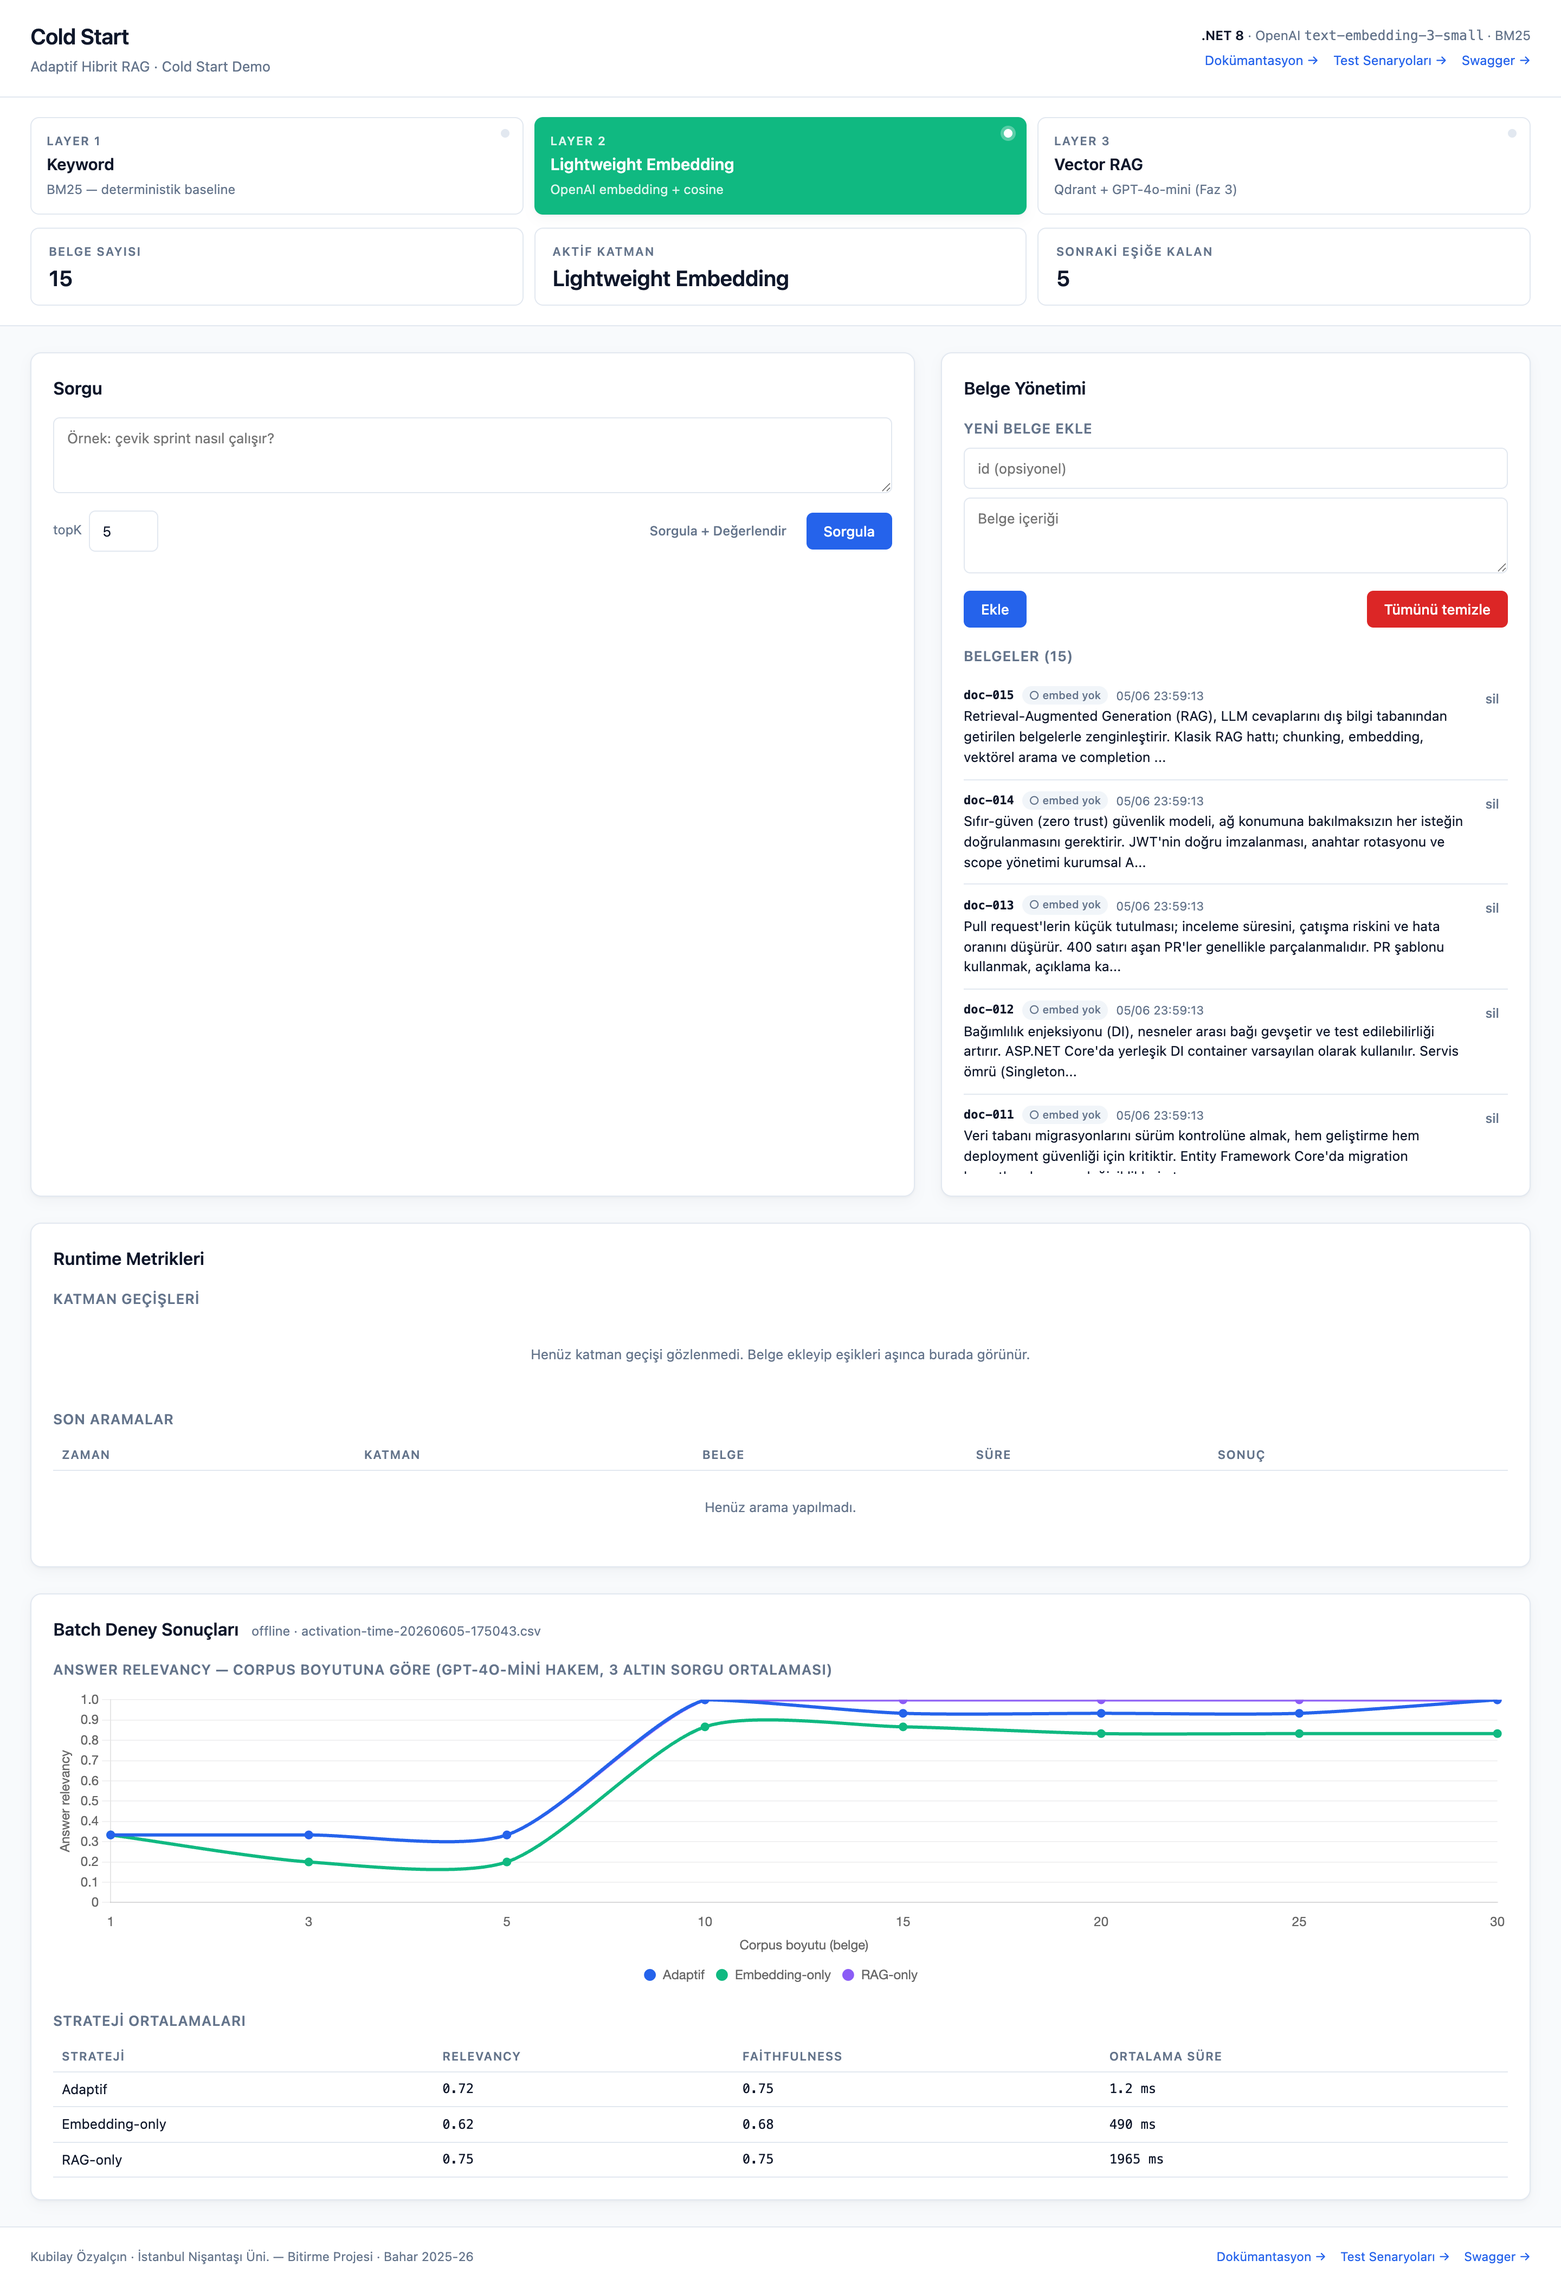
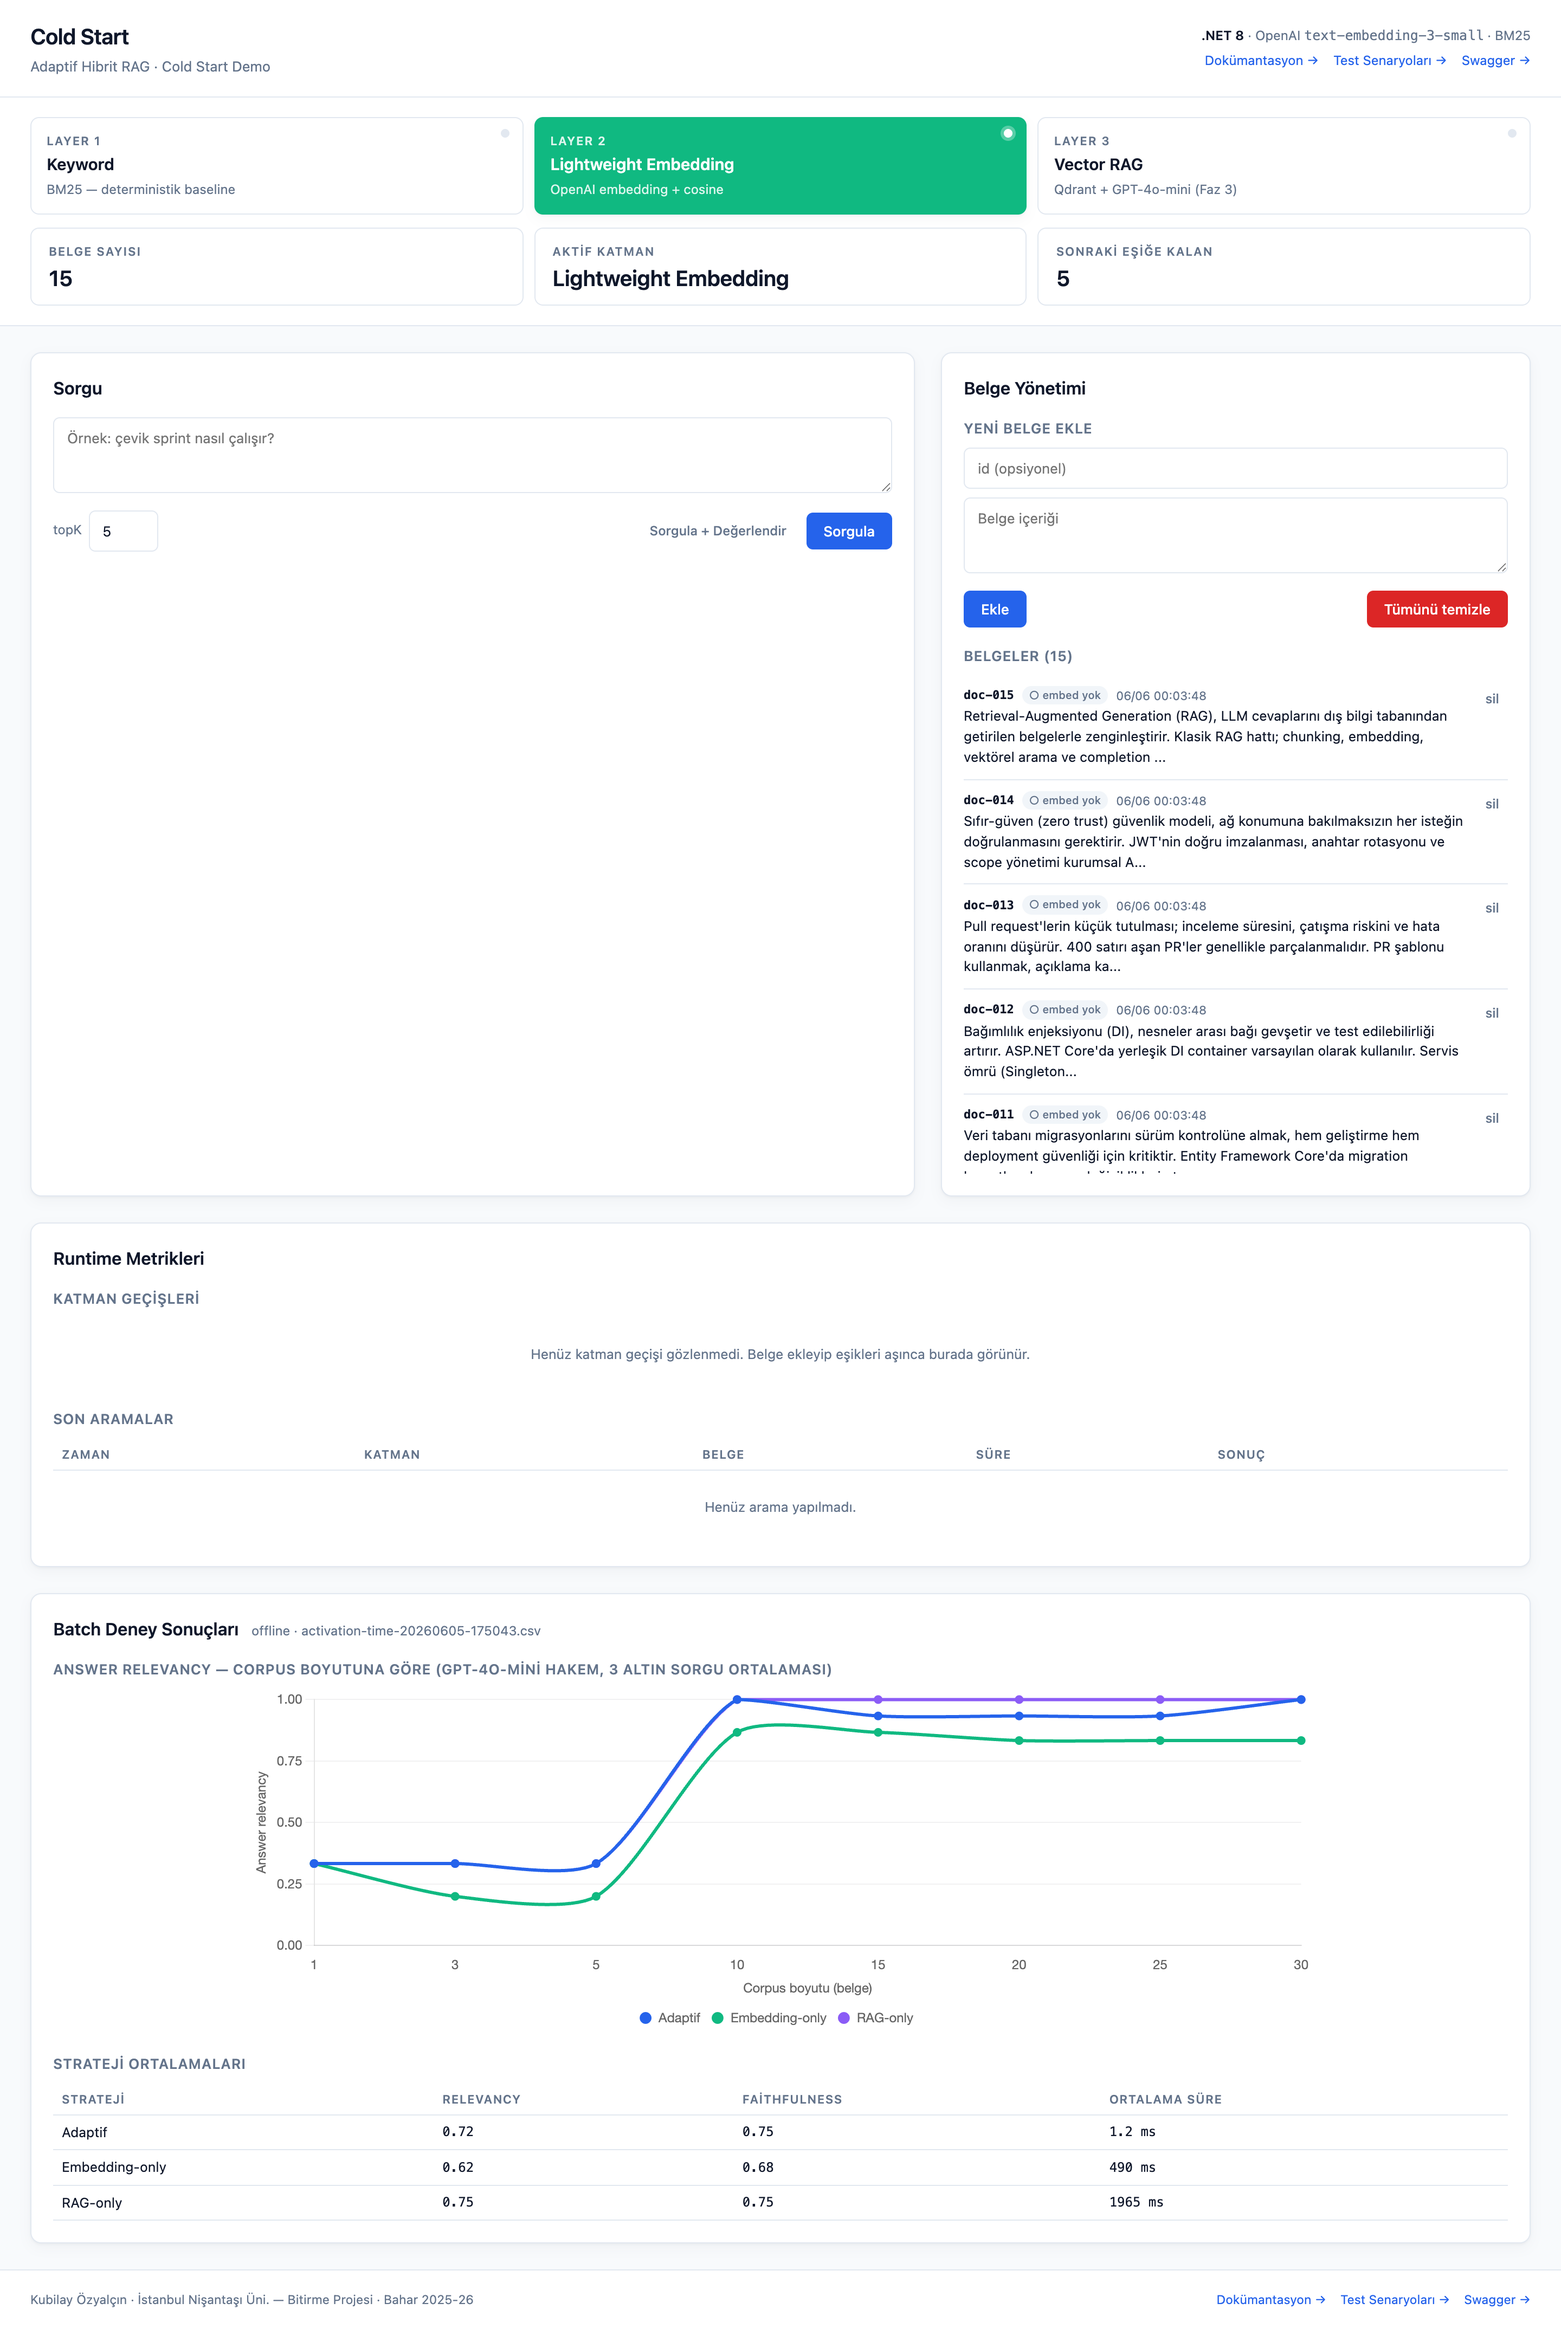
Deney grafiğini düzenle: üst kırpılmayı gider, eksen ve genişlik ayarı
Grafik 980px'e ortalandı, 1.0'daki seri için üst nefes payı eklendi
(clip: false + layout padding), y ekseni iki ondalıklı 0.25 adımlı.

diff --git a/src/ColdStart.Api/wwwroot/index.html b/src/ColdStart.Api/wwwroot/index.html
@@ -211,7 +211,7 @@
         ul#sources li .score { text-align: right; font-family: "JetBrains Mono", monospace; font-size: 12px; color: var(--primary); font-weight: 600; }
 
         .exp-note { font-size: 12px; font-weight: 400; color: var(--muted); margin-left: 8px; }
-        .exp-chart-wrap { position: relative; height: 280px; }
+        .exp-chart-wrap { position: relative; height: 320px; max-width: 980px; margin: 0 auto; }
 
         .doc-list { list-style: none; padding: 0; margin: 0; max-height: 460px; overflow-y: auto; }
         .doc-list li {
@@ -779,7 +779,8 @@
                 tension: 0.25,
                 spanGaps: true,
                 pointRadius: 3.5,
-                pointHoverRadius: 5
+                pointHoverRadius: 5,
+                clip: false
             });
         }
 
@@ -789,10 +790,12 @@
             options: {
                 responsive: true,
                 maintainAspectRatio: false,
+                layout: { padding: { top: 8, right: 8 } },
                 interaction: { mode: 'nearest', intersect: false },
                 scales: {
                     y: {
                         min: 0, max: 1,
+                        ticks: { stepSize: 0.25, callback: v => v.toFixed(2) },
                         title: { display: true, text: 'Answer relevancy' },
                         grid: { color: 'rgba(15, 23, 42, .06)' }
                     },
